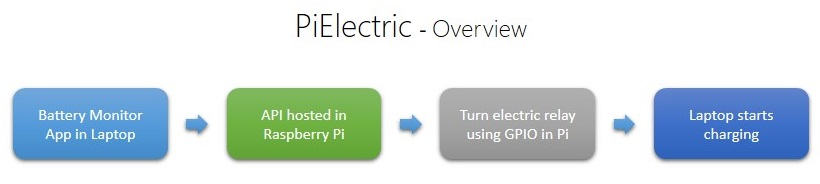
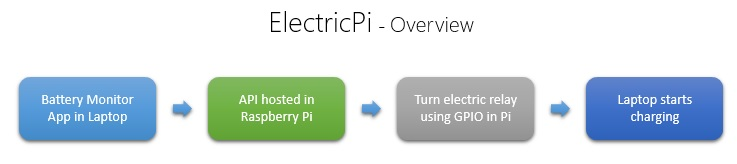
Docs updated

Changed region(s): [[0.0, 0.4573, 0.9986, 0.8841], [0.3433, 0.061, 0.6554, 0.2134], [0.5305, 0.4573, 0.7178, 0.4878]]

diff --git a/README.md b/README.md
@@ -1,4 +1,4 @@
-# PiElectric
+# ElectricPi
 
 To control an electic device via a relay, through Raspberry Pi, which has the API and will be triggered by a battery monitor app in laptop.
 
